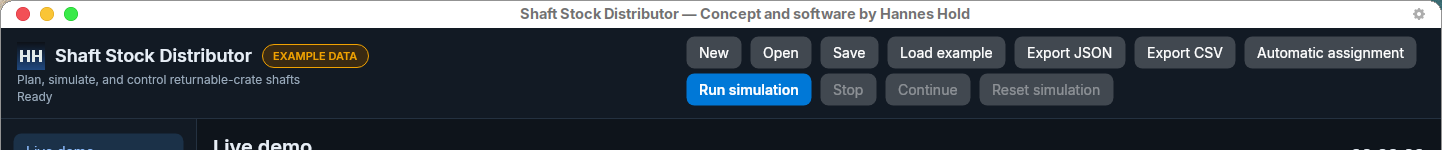
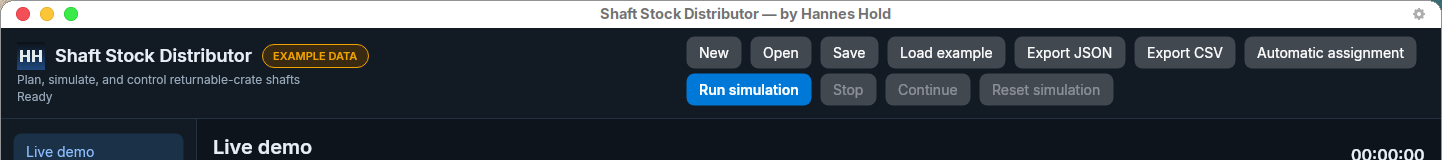
Shorten the window title credit to "— by Hannes Hold".

diff --git a/README.md b/README.md
@@ -1,8 +1,8 @@
 # Shaft Stock Distributor
 
-Shaft Stock Distributor plans which returnable-crate article belongs in which shaft of a flow-rack aisle, then simulates the shuttles that pull those shafts. Concept and software by Hannes Hold. The same operations core drives the animated demo and the scenario study, and it is the surface a future PLC adapter would call.
+Shaft Stock Distributor plans which returnable-crate article belongs in which shaft of a flow-rack aisle, then simulates the shuttles that pull those shafts. By Hannes Hold. The same operations core drives the animated demo and the scenario study, and it is the surface a future PLC adapter would call.
 
-The desktop app is Avalonia 11 (11.3.22) on .NET 10. Headless rendering and the chart library both work, so the UI stayed on Avalonia. The window title is “Shaft Stock Distributor — Concept and software by Hannes Hold”. The application icon is the HH mark.
+The desktop app is Avalonia 11 (11.3.22) on .NET 10. Headless rendering and the chart library both work, so the UI stayed on Avalonia. The window title is “Shaft Stock Distributor — by Hannes Hold”. The application icon is the HH mark.
 
 All copy in the app, the sample, the logs, and these docs is English.
 
@@ -26,7 +26,7 @@ The Layout page edits the rack and a shuttle table: segment from/to, speed (defa
 
 ## Screenshots
 
-The desktop window title is “Shaft Stock Distributor — Concept and software by Hannes Hold”. The HH mark is the application icon and the header mark.
+The desktop window title is “Shaft Stock Distributor — by Hannes Hold”. The HH mark is the application icon and the header mark.
 
 ![Window title and HH mark](docs/screenshots/window-chrome.png)
 
